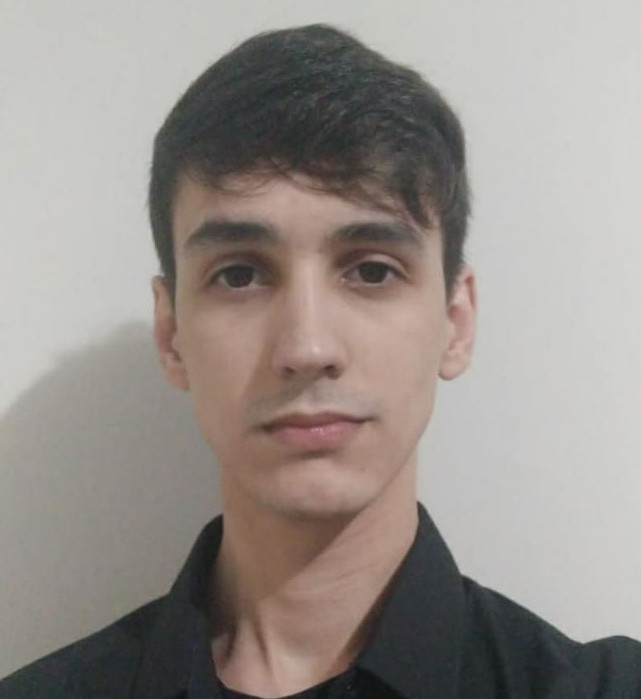
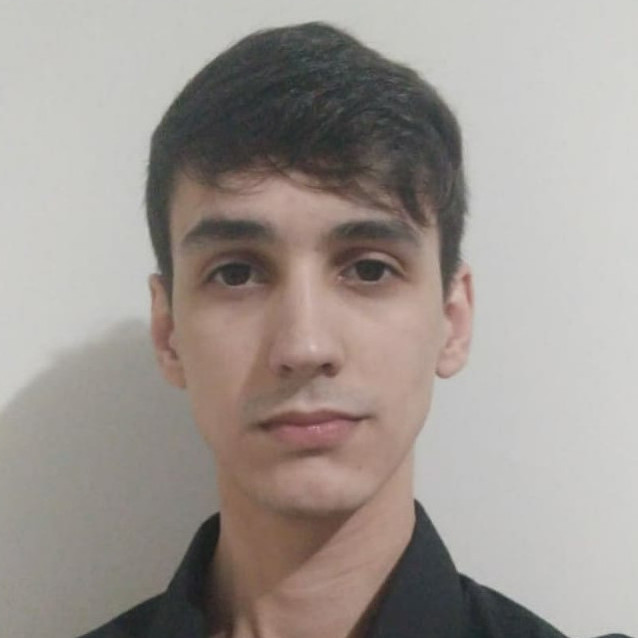
updating

diff --git a/index.html b/index.html
@@ -12,16 +12,26 @@
         <h1 id="principal_title">Iury O. Pichitelli</h1>
     </header>
     <nav></nav>
-    <main>
-        <article>
-            <h1>Minhas competências</h1>
+    <div class="container">
+        <aside>
             <div class="img_profile">
-                <img src="images/profile/foto_social_large.jpeg" alt="image_profile">
+                <img src="images/profile/foto_social_short.jpeg" alt="image_profile">
             </div>
-            
-            <p>Lorem ipsum dolor sit amet, consectetur adipisicing elit. Sunt, fugiat iusto eum at facere magni ea nobis laudantium reiciendis vel accusamus sint qui incidunt, exercitationem eos! Quae ipsum impedit recusandae tenetur nostrum dolorum, sed eius perspiciatis numquam necessitatibus similique. Recusandae, consequatur! Odit esse quibusdam placeat eaque aspernatur modi aliquam cumque?</p>
-            <p>Lorem ipsum dolor, sit amet consectetur adipisicing elit. Quae accusamus accusantium aperiam, dolores repellendus esse cupiditate molestias enim minus non, necessitatibus nulla. Nesciunt, cum possimus! Provident rerum quo ea dignissimos.</p>
-        </article>
-    </main>
+        </aside>
+        
+        <main>
+        
+            <article>
+                <h1>Minhas competências</h1>
+        
+        
+                <p>Lorem ipsum dolor sit amet, consectetur adipisicing elit. Sunt, fugiat iusto eum at facere magni ea nobis laudantium reiciendis vel accusamus sint qui incidunt, exercitationem eos! Quae ipsum impedit recusandae tenetur nostrum dolorum, sed eius perspiciatis numquam necessitatibus similique. Recusandae, consequatur! Odit esse quibusdam placeat eaque aspernatur modi aliquam cumque?</p>
+                <p>Lorem ipsum dolor, sit amet consectetur adipisicing elit. Quae accusamus accusantium aperiam, dolores repellendus esse cupiditate molestias enim minus non, necessitatibus nulla. Nesciunt, cum possimus! Provident rerum quo ea dignissimos.</p>
+            </article>
+        </main>
+    </div>
+    <footer>
+        <p>Developed by Iury Pichitelli</p>
+    </footer>
 </body>
 </html>

diff --git a/css/style.css b/css/style.css
@@ -1,5 +1,7 @@
 @charset "utf-8";
 
+@import url('https://fonts.googleapis.com/css2?family=Roboto:ital,wght@0,100..900;1,100..900&display=swap');
+
 *{
     padding: 0;
     margin: 0;
@@ -9,8 +11,22 @@
     --primary-color: black;
     --secondary-color: white;
 
-    --primary-font: calibri, sans-serif;
+    --font-principal-title: "Roboto", sans-serif;
+    --font-paragraph: sans-serif;
 }
+
+/* default settigs tags*/
+
+p{
+    font-family: var(--font-paragraph);
+    text-align: justify;
+}
+
+img{
+    cursor: pointer;
+}
+
+/* header settings*/
 
 header{
     width: 100%;
@@ -21,11 +37,51 @@ header #principal_title{
     text-align: center;
     color: var(--secondary-color);
     font-size: 2em;
-    font-family: var(--primary-font);
+    font-family: var(--font-principal-title);
     padding: 20px;
 }
 
+/* container settings*/
+
+.container{
+    display: flex;
+}
+
+/* Section settings*/
+
+aside{
+    width: 300px;
+    height: 100%;
+}
+
+.img_profile img{
+    width: 250px;
+    border-radius: 50%;
+    margin: 10px;
+    border: 2px solid black;
+}
+
+/* main settings*/
+
 main{
     width: 800px;
-    padding: 10px;
+    padding: 20px;
+}
+
+/* article settings*/
+
+article{
+   
+}
+
+/* footer settings*/
+
+footer{
+    background-color: var(--primary-color);
+}
+
+footer p{
+    color: var(--secondary-color);
+    text-align: center;
+    padding: 30px 0px;
 }
